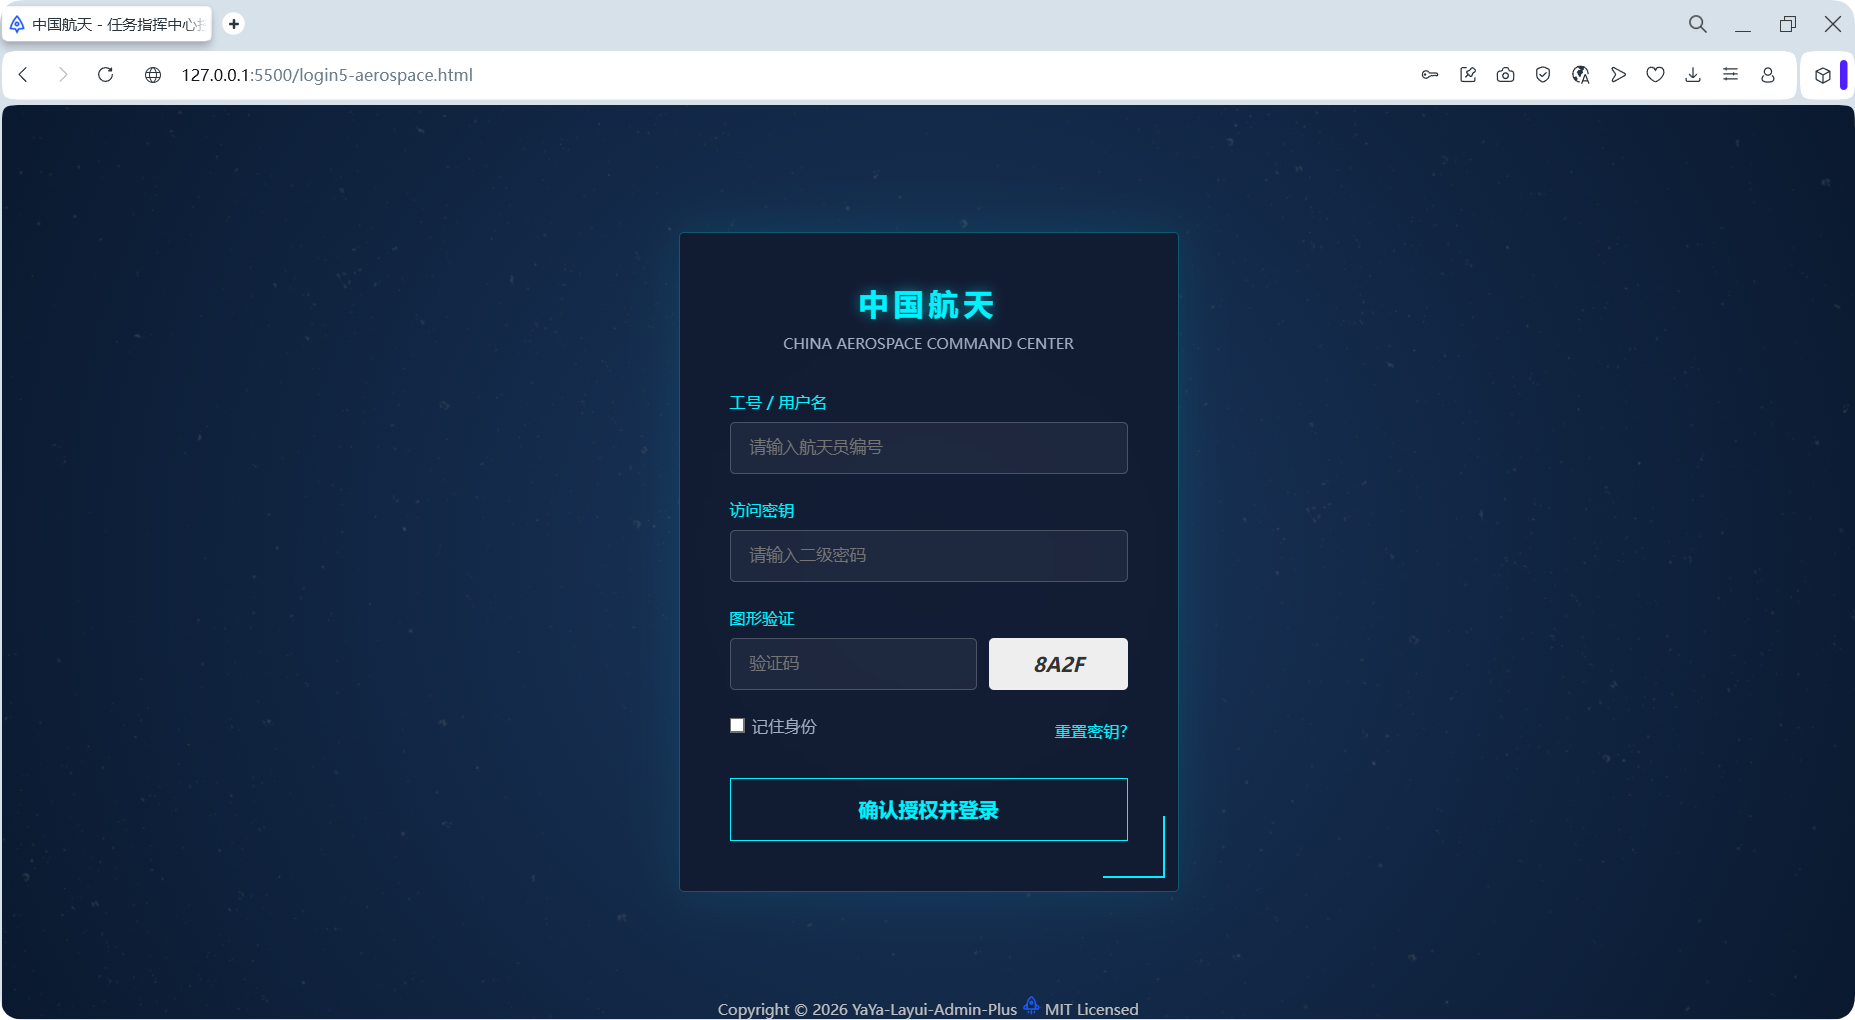
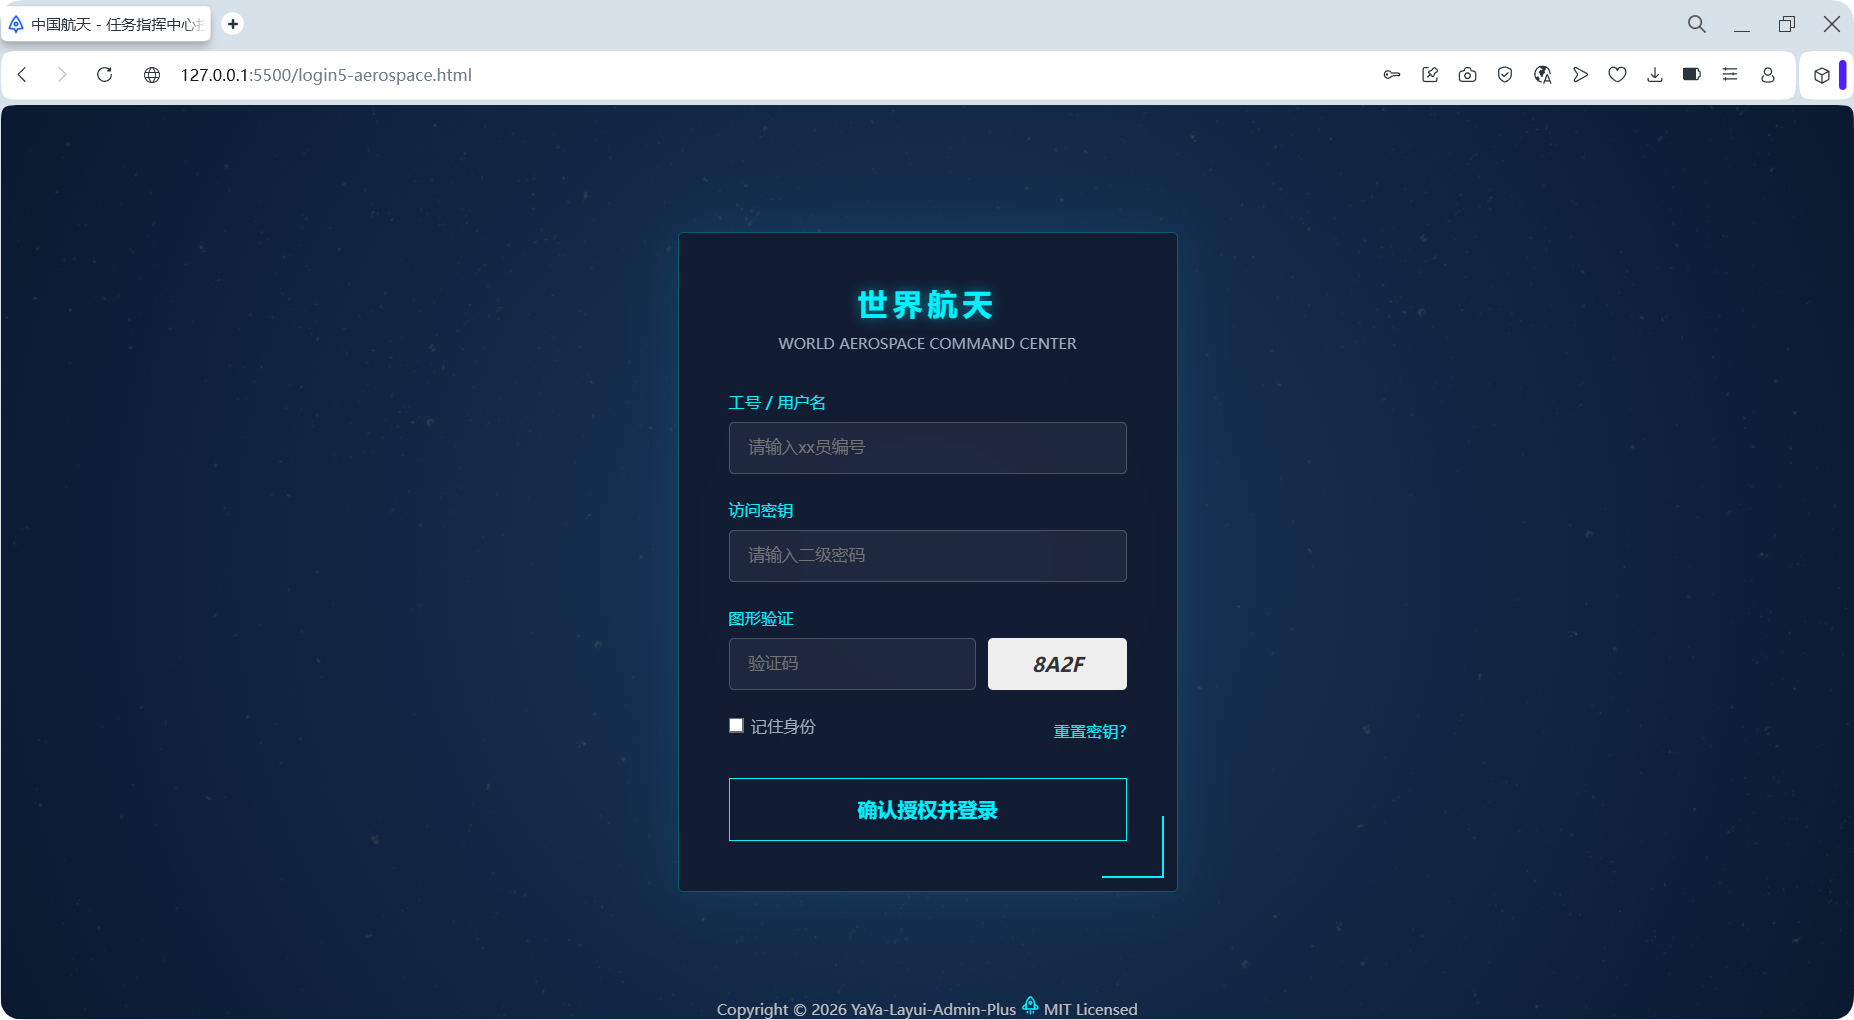
yaya-layui-admin-plus 航天登陆页面修改

diff --git a/js/yaya-admin-plus.js b/js/yaya-admin-plus.js
@@ -374,6 +374,19 @@ layui.use(function (){
      * 恢复选项卡到上一次显示的历史
      */
     function setTabs() {
+
+        /*
+         *  默认首页的yayaId和yaya-url和welcomeYayaTitle标题
+         *  个人中心的yayaId和yaya-url和personYayaTitle标题
+         */
+        let welcomeYayaId='999999999';
+        let welcomeYayaTitle='仪表盘';
+        let welcomeYayaUrl='views/dashboard.html';
+        let personYayaId='888888888';
+        let personYayaTitle='个人中心';
+        let personYayaUrl='views/personal_center.html';
+
+
         let yaya = layui.data('yaya');
         if(yaya && Object.keys(yaya).length>0){
             //获取yayaId
@@ -381,30 +394,30 @@ layui.use(function (){
             //获取需要选项卡展示的菜单内容对象
             let $menu = $(`.layui-menu li[yaya-id=${yayaId}]`);
             //获取地址
-            let $yayaUrl = yayaId!=='888888888'?$menu.attr("yaya-url"):'views/personal_center.html';
+            let $yayaUrl = yayaId!==personYayaId?$menu.attr("yaya-url"):personYayaUrl;
             //名称
-            let $yayaTitle = yayaId!=='888888888'?$menu.attr("yaya-title"):'个人中心';
+            let $yayaTitle = yayaId!==personYayaId?$menu.attr("yaya-title"):personYayaTitle;
 
-            if(yayaId==='999999999'){ //默认仪表盘
+            if(yayaId===welcomeYayaId){ //默认仪表盘
                 tabs.render({
                     elem: '#yaya-right-tab',
                     className:'yaya-tabs',
                     header: [
                         {
-                            title: '仪表盘',
+                            title: welcomeYayaTitle,
                             closable:false,
-                            id:'999999999'
+                            id:welcomeYayaId
                         }
                     ],
                     body: [
                         {
                             /* 默认页面,如果换新的页面,修改此页面 */
-                            content: '<iframe style="border: none;width: 100%;height: 100%;" src="views/dashboard.html"></iframe>',
-                            id:'999999999'
+                            content: `<iframe style="border: none;width: 100%;height: 100%;" src='${welcomeYayaUrl}'></iframe>`,
+                            id:welcomeYayaId
                         }
                     ],
                     closable:true,
-                    index: '999999999'
+                    index: welcomeYayaId
                 });
             }else {
                 tabs.render({
@@ -412,9 +425,9 @@ layui.use(function (){
                     className:'yaya-tabs',
                     header: [
                         {
-                            title: '仪表盘',
+                            title: welcomeYayaTitle,
                             closable:false,
-                            id:'999999999'
+                            id:welcomeYayaId
                         },
                         {
                             title: $yayaTitle,
@@ -425,8 +438,8 @@ layui.use(function (){
                     body: [
                         {
                             /* 默认页面,如果换新的页面,修改此页面 */
-                            content: '<iframe style="border: none;width: 100%;height: 100%;" src="views/dashboard.html"></iframe>',
-                            id:'999999999'
+                            content: `<iframe style="border: none;width: 100%;height: 100%;" src='${welcomeYayaUrl}'></iframe>`,
+                            id:welcomeYayaId
                         },
                         {
                             /* 默认页面,如果换新的页面,修改此页面 */
@@ -445,20 +458,20 @@ layui.use(function (){
                 className:'yaya-tabs',
                 header: [
                     {
-                        title: '仪表盘',
+                        title: welcomeYayaTitle,
                         closable:false,
-                        id:'999999999'
+                        id:welcomeYayaId
                     }
                 ],
                 body: [
                     {
                         /* 默认页面,如果换新的页面,修改此页面 */
-                        content: '<iframe style="border: none;width: 100%;height: 100%;" src="views/dashboard.html"></iframe>',
-                        id:'999999999'
+                        content: `<iframe style="border: none;width: 100%;height: 100%;" src='${welcomeYayaUrl}'></iframe>`,
+                        id:welcomeYayaId
                     }
                 ],
                 closable:true,
-                index: '999999999'
+                index: welcomeYayaId
             });
         }
 

diff --git a/login5-aerospace.html b/login5-aerospace.html
@@ -196,14 +196,14 @@
 <div class="login-card">
     <div class="decoration"></div>
     <div class="header">
-        <h1>中国航天</h1>
-        <p>China Aerospace Command Center</p>
+        <h1>世界航天</h1>
+        <p>World Aerospace Command Center</p>
     </div>
 
     <form id="loginForm">
         <div class="form-group">
             <label>工号 / 用户名</label>
-            <input type="text" placeholder="请输入航天员编号" required>
+            <input type="text" placeholder="请输入xx员编号" required>
         </div>
 
         <div class="form-group">
